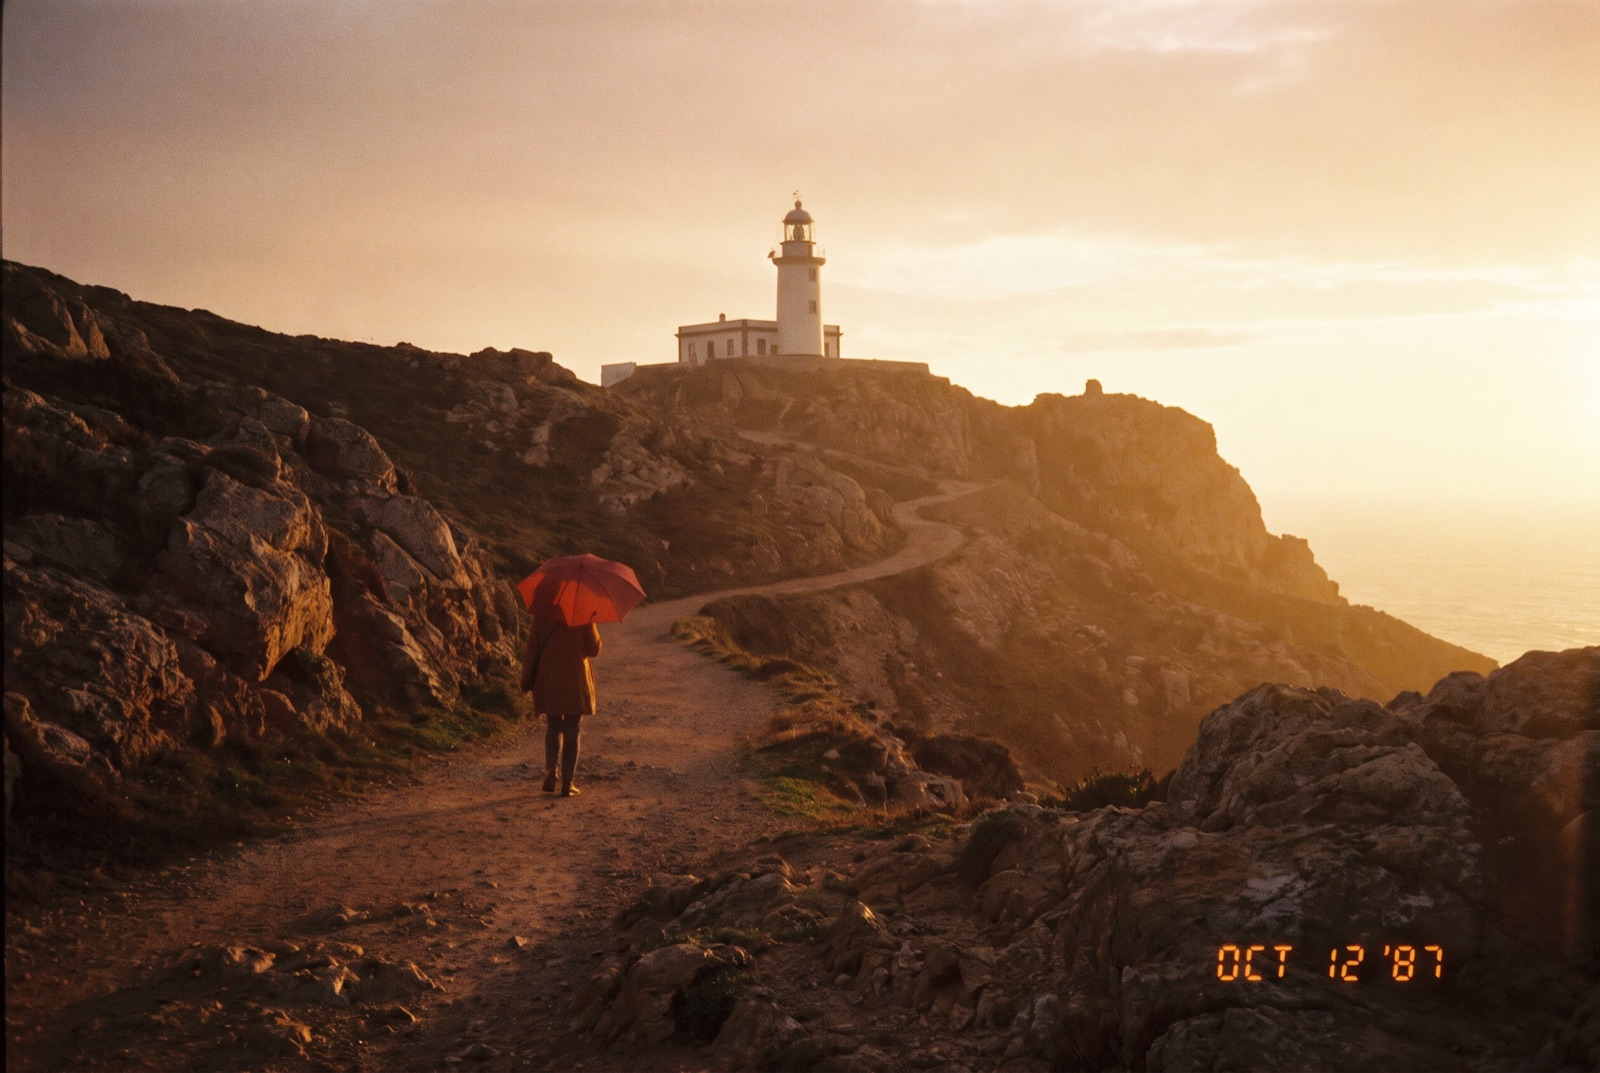
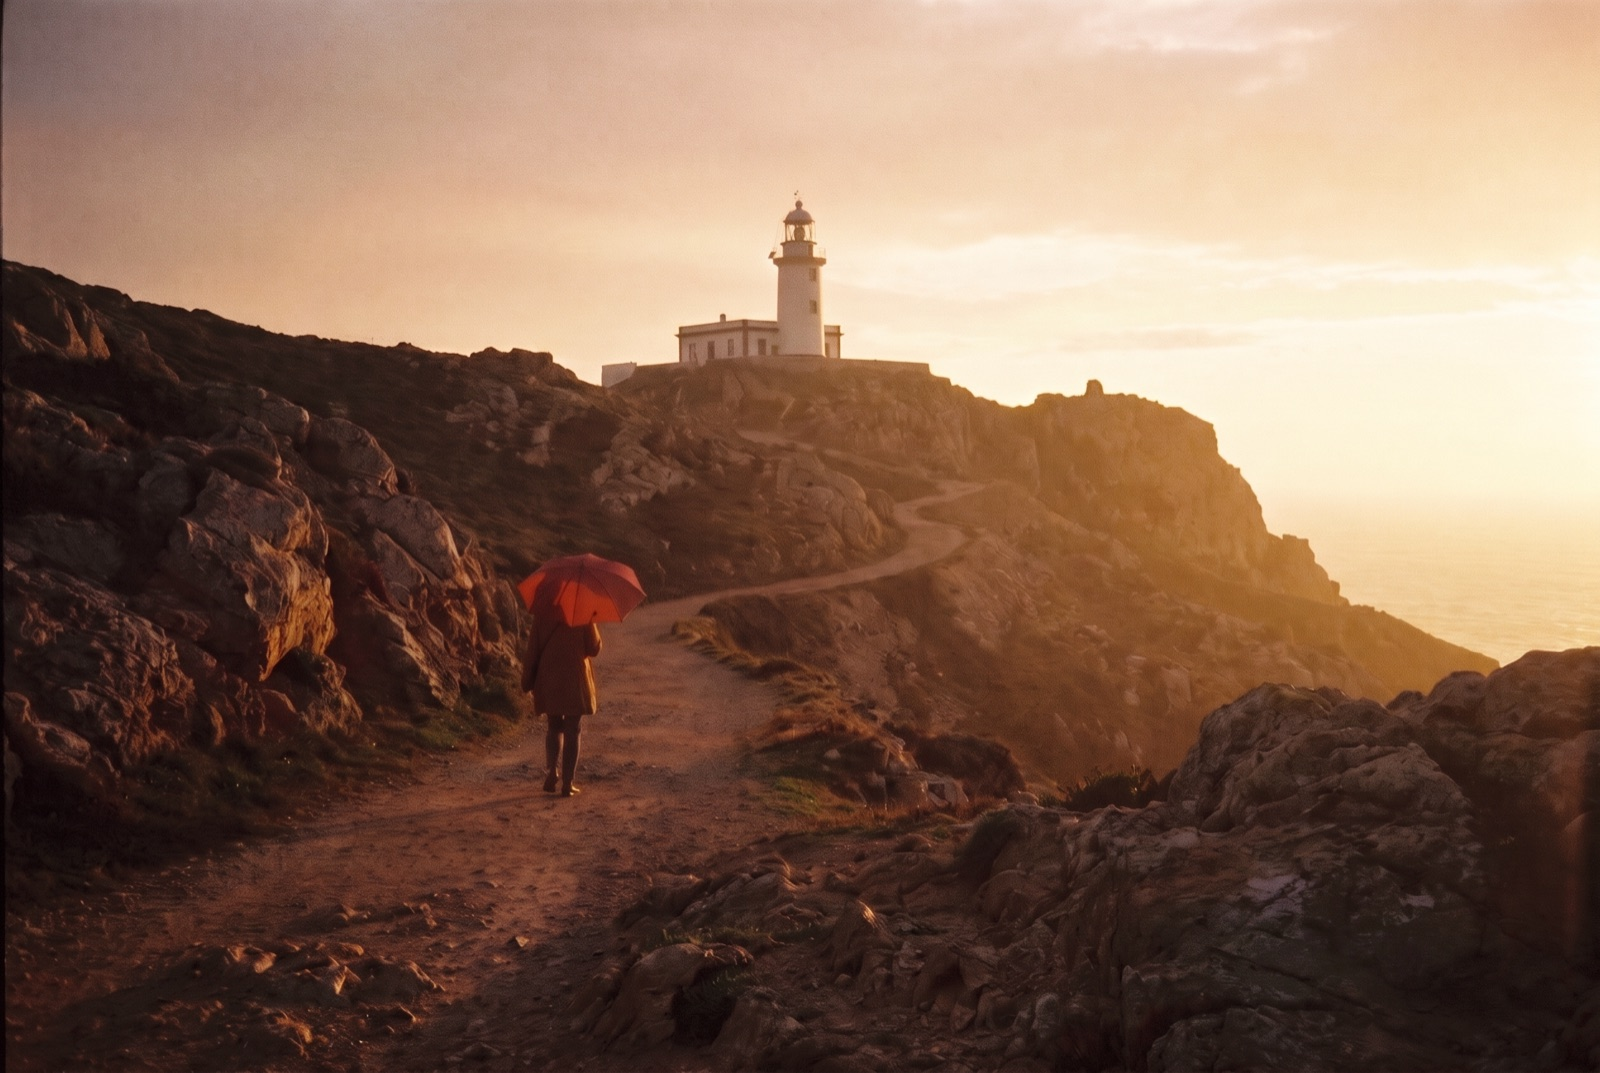
feat(website): Five moods on one picture, Vintage Film without date stamp
Adds Film Noir and Dreamy Pastel (real blocks and palettes) to the mood tabs; the tabs scroll on
narrow screens.

diff --git a/website/assets/js/site.js b/website/assets/js/site.js
@@ -28,7 +28,7 @@ const TEXT = {
         "feature.models.1": "FLUX, Nano Banana,", "feature.models.2": "OpenAI-compatible",
         "feature.models.full": "FLUX, Nano Banana, OpenAI-compatible",
         "mood.title": "Switch the mood, keep the picture",
-        "mood.lead": "Same prompt, three moods. A mood is made of building blocks, each one lockable.",
+        "mood.lead": "One picture, five moods. A mood is made of building blocks, each one lockable.",
         "block.style": "Style", "block.atmosphere": "Atmosphere", "block.light": "Light", "block.color": "Color", "block.camera": "Camera",
         "mood.point.own": "Your own blocks and saved moods",
         "mood.point.image": "Mood from image: drop a picture, get its mood",
@@ -42,6 +42,8 @@ const TEXT = {
         "mood.noir.name": "Sci-Fi Cinema", "mood.noir.style": "Cinematic Film Still",
         "mood.noir.atmosphere": "Futuristic", "mood.noir.light": "Neon Practicals",
         "mood.noir.camera": "—",
+        "mood.bw.name": "Film Noir", "mood.bw.style": "Black-and-White Film", "mood.bw.atmosphere": "Menacing", "mood.bw.light": "Chiaroscuro", "mood.bw.camera": "—",
+        "mood.pastel.name": "Dreamy Pastel", "mood.pastel.style": "Watercolor", "mood.pastel.atmosphere": "Dreamlike", "mood.pastel.light": "High-Key", "mood.pastel.camera": "—",
         "frame.title": "Say the format once",
         "frame.lead": "A frame is a target aspect ratio and resolution, saved by name.",
         "frame.text": "Every model takes its closest aspect ratio and resolution, and the app shows which one before you generate.",
@@ -88,7 +90,7 @@ const TEXT = {
         "feature.models.1": "FLUX, Nano Banana,", "feature.models.2": "OpenAI-kompatibel",
         "feature.models.full": "FLUX, Nano Banana, OpenAI-kompatibel",
         "mood.title": "Mood wechseln, Bild behalten",
-        "mood.lead": "Derselbe Prompt, drei Moods. Eine Mood besteht aus Bausteinen, jeder einzeln sperrbar.",
+        "mood.lead": "Ein Bild, fünf Moods. Eine Mood besteht aus Bausteinen, jeder einzeln sperrbar.",
         "block.style": "Stil", "block.atmosphere": "Atmosphäre", "block.light": "Licht", "block.color": "Farbe", "block.camera": "Kamera",
         "mood.point.own": "Eigene Bausteine und gespeicherte Moods",
         "mood.point.image": "Mood aus Bild: Bild ablegen, Mood erhalten",
@@ -102,6 +104,8 @@ const TEXT = {
         "mood.noir.name": "Sci-Fi Cinema", "mood.noir.style": "Cinematic Film Still",
         "mood.noir.atmosphere": "Futuristic", "mood.noir.light": "Neon Practicals",
         "mood.noir.camera": "—",
+        "mood.bw.name": "Film Noir", "mood.bw.style": "Black-and-White Film", "mood.bw.atmosphere": "Menacing", "mood.bw.light": "Chiaroscuro", "mood.bw.camera": "—",
+        "mood.pastel.name": "Dreamy Pastel", "mood.pastel.style": "Watercolor", "mood.pastel.atmosphere": "Dreamlike", "mood.pastel.light": "High-Key", "mood.pastel.camera": "—",
         "frame.title": "Format einmal festlegen",
         "frame.lead": "Ein Frame ist Seitenverhältnis plus Auflösung, gespeichert unter einem Namen.",
         "frame.text": "Jedes Modell nimmt das nächstliegende Seitenverhältnis und die nächstliegende Auflösung, die App zeigt beides vor dem Generieren an.",
@@ -131,7 +135,9 @@ const TEXT = {
 const MOODS = {
     golden: { image: "mood-vintage-film.jpg", swatches: [ "#FFB347", "#FF9F1C", "#E85D04", "#D00000", "#370617" ] },
     fog:    { image: "mood-quiet-morning.jpg",    swatches: [ "#CAF0F8", "#ADE8F4", "#90E0EF", "#48CAE4", "#00B4D8" ] },
-    noir:   { image: "mood-sci-fi-cinema.jpg",   swatches: [ "#FF00FF", "#00FFFF", "#FF006E", "#8338EC", "#3A0CA3" ] }
+    noir:   { image: "mood-sci-fi-cinema.jpg",   swatches: [ "#FF00FF", "#00FFFF", "#FF006E", "#8338EC", "#3A0CA3" ] },
+    bw:     { image: "mood-film-noir.jpg",     swatches: [ "#0A0A0A", "#3D3D3D", "#808080", "#C4C4C4", "#F5F5F5" ] },
+    pastel: { image: "mood-dreamy-pastel.jpg", swatches: [ "#FFD1DC", "#E6E6FA", "#B5EAD7", "#FFDAC1", "#C7CEEA" ] }
 }
 
 const state = { lang: "en", mood: "golden", os: detectOS(), release: null }

diff --git a/website/index.html b/website/index.html
@@ -110,12 +110,14 @@
     <section class="chapter wrap" id="mood">
         <p class="eyebrow" data-i18n="nav.mood">Mood</p>
         <h2 data-i18n="mood.title">Switch the mood, keep the picture</h2>
-        <p class="lead" data-i18n="mood.lead">Same prompt, three moods. A mood is made of building blocks, each one lockable.</p>
+        <p class="lead" data-i18n="mood.lead">One picture, five moods. A mood is made of building blocks, each one lockable.</p>
         <div class="card">
             <div class="tabs" role="tablist" aria-label="Moods" data-mood-tabs>
                 <button type="button" role="tab" aria-selected="true" data-mood="golden" data-i18n="mood.golden.name">Vintage Film</button>
                 <button type="button" role="tab" aria-selected="false" data-mood="fog" data-i18n="mood.fog.name">Quiet Morning</button>
                 <button type="button" role="tab" aria-selected="false" data-mood="noir" data-i18n="mood.noir.name">Sci-Fi Cinema</button>
+                <button type="button" role="tab" aria-selected="false" data-mood="bw" data-i18n="mood.bw.name">Film Noir</button>
+                <button type="button" role="tab" aria-selected="false" data-mood="pastel" data-i18n="mood.pastel.name">Dreamy Pastel</button>
             </div>
             <div class="mood-body" role="tabpanel">
                 <img src="assets/img/mood-vintage-film.jpg" alt="" width="1600" height="1067" data-mood-image>

diff --git a/website/assets/css/site.css b/website/assets/css/site.css
@@ -249,8 +249,8 @@ footer .links { display: flex; gap: 20px; margin-left: auto; }
     .overview-list li::before { content: ""; width: 10px; height: 10px; margin-top: 6px; border-radius: 50%; background: var(--dot, #fff); }
     .overview-list b { color: var(--fg-strong); font-weight: 600; }
     .mood-body, .frame-body, .providers { grid-template-columns: minmax(0, 1fr); }
-    .tabs { display: flex; width: 100%; }
-    .tabs [role="tab"] { flex: 1; padding-inline: 8px; }
+    .tabs { display: flex; width: 100%; overflow-x: auto; }
+    .tabs [role="tab"] { flex: 1 0 auto; padding-inline: 12px; white-space: nowrap; }
     .terminal pre { font-size: 13px; }
     footer .links { margin-left: 0; }
 }
